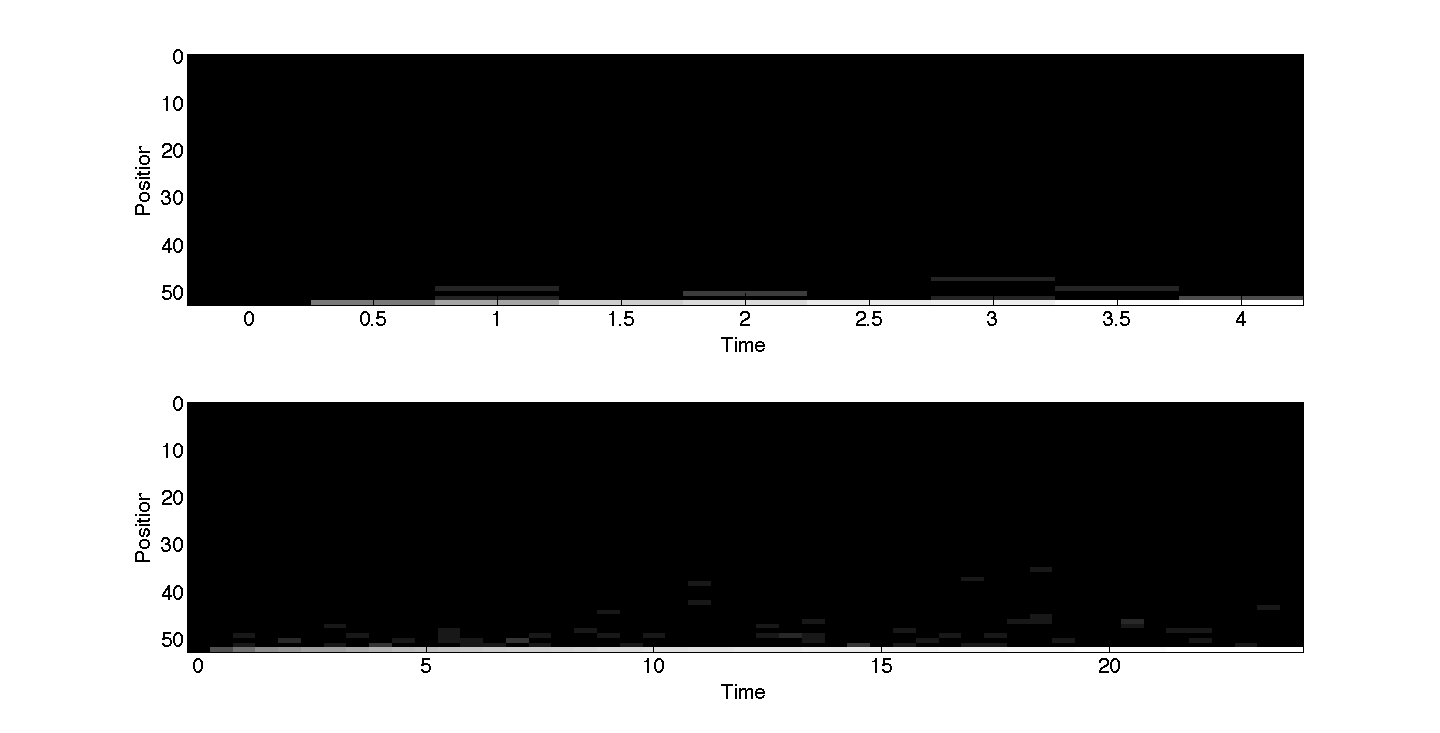
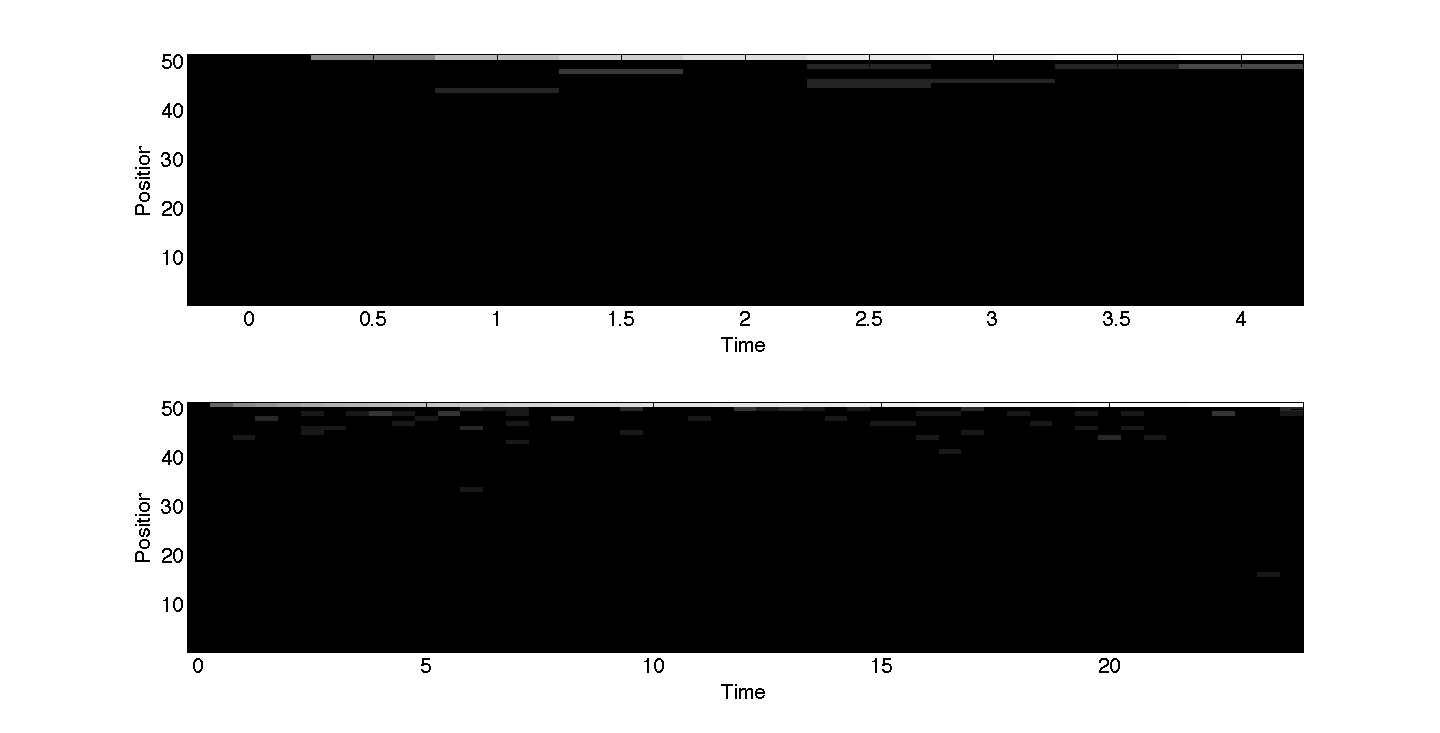
Added figures in correct format

diff --git a/velocityjump2D_with_production.m b/velocityjump2D_with_production.m
@@ -94,30 +94,42 @@ if with_plot
 %plot with a log scale
 figure;
 subplot(2,1,1)
-imagesc(time_vec(1:9), 0:L, log(q_raw(:,1:9))) %plot initial period
+imagesc(time_vec(1:9), 0:L, flipud(log(q_raw(:,1:9)))) %plot initial period
 colormap(gray)
 set(gca, 'fontsize', 20);
+yticklabels = 0:10:52;
+yticks = linspace(1, size(q_raw, 1), numel(yticklabels));
+set(gca, 'YTick', yticks, 'YTickLabel', flipud(yticklabels(:)))
 xlabel('Time')
 ylabel('Position')
 subplot(2,1,2)
-imagesc(time_vec, 0:L, log(q_raw)) % plot whole time course
+imagesc(time_vec, 0:L, flipud(log(q_raw))) % plot whole time course
 colormap(gray)
 set(gca, 'fontsize', 20);
+yticklabels = 0:10:52;
+yticks = linspace(1, size(q_raw, 1), numel(yticklabels));
+set(gca, 'YTick', yticks, 'YTickLabel', flipud(yticklabels(:)))
 xlabel('Time')
 ylabel('Position')
 
 %plot on a normal scale 
 figure;
 subplot(2,1,1)
-imagesc(time_vec(1:9), 0:L, q_raw(:,1:9)) % plot initial period
+imagesc(time_vec(1:9), 0:L, flipud(q_raw(:,1:9))) % plot initial period
 colormap(gray)
 set(gca, 'fontsize', 20);
+yticklabels = 0:10:52;
+yticks = linspace(1, size(q_raw, 1), numel(yticklabels));
+set(gca, 'YTick', yticks, 'YTickLabel', flipud(yticklabels(:)))
 xlabel('Time')
 ylabel('Position')
 subplot(2,1,2)
-imagesc(time_vec, 0:L, q_raw)
+imagesc(time_vec, 0:L, flipud(q_raw))
 colormap(gray)
 set(gca, 'fontsize', 20);
+yticklabels = 0:10:52;
+yticks = linspace(1, size(q_raw, 1), numel(yticklabels));
+set(gca, 'YTick', yticks, 'YTickLabel', flipud(yticklabels(:)))
 xlabel('Time')
 ylabel('Position')
 end
